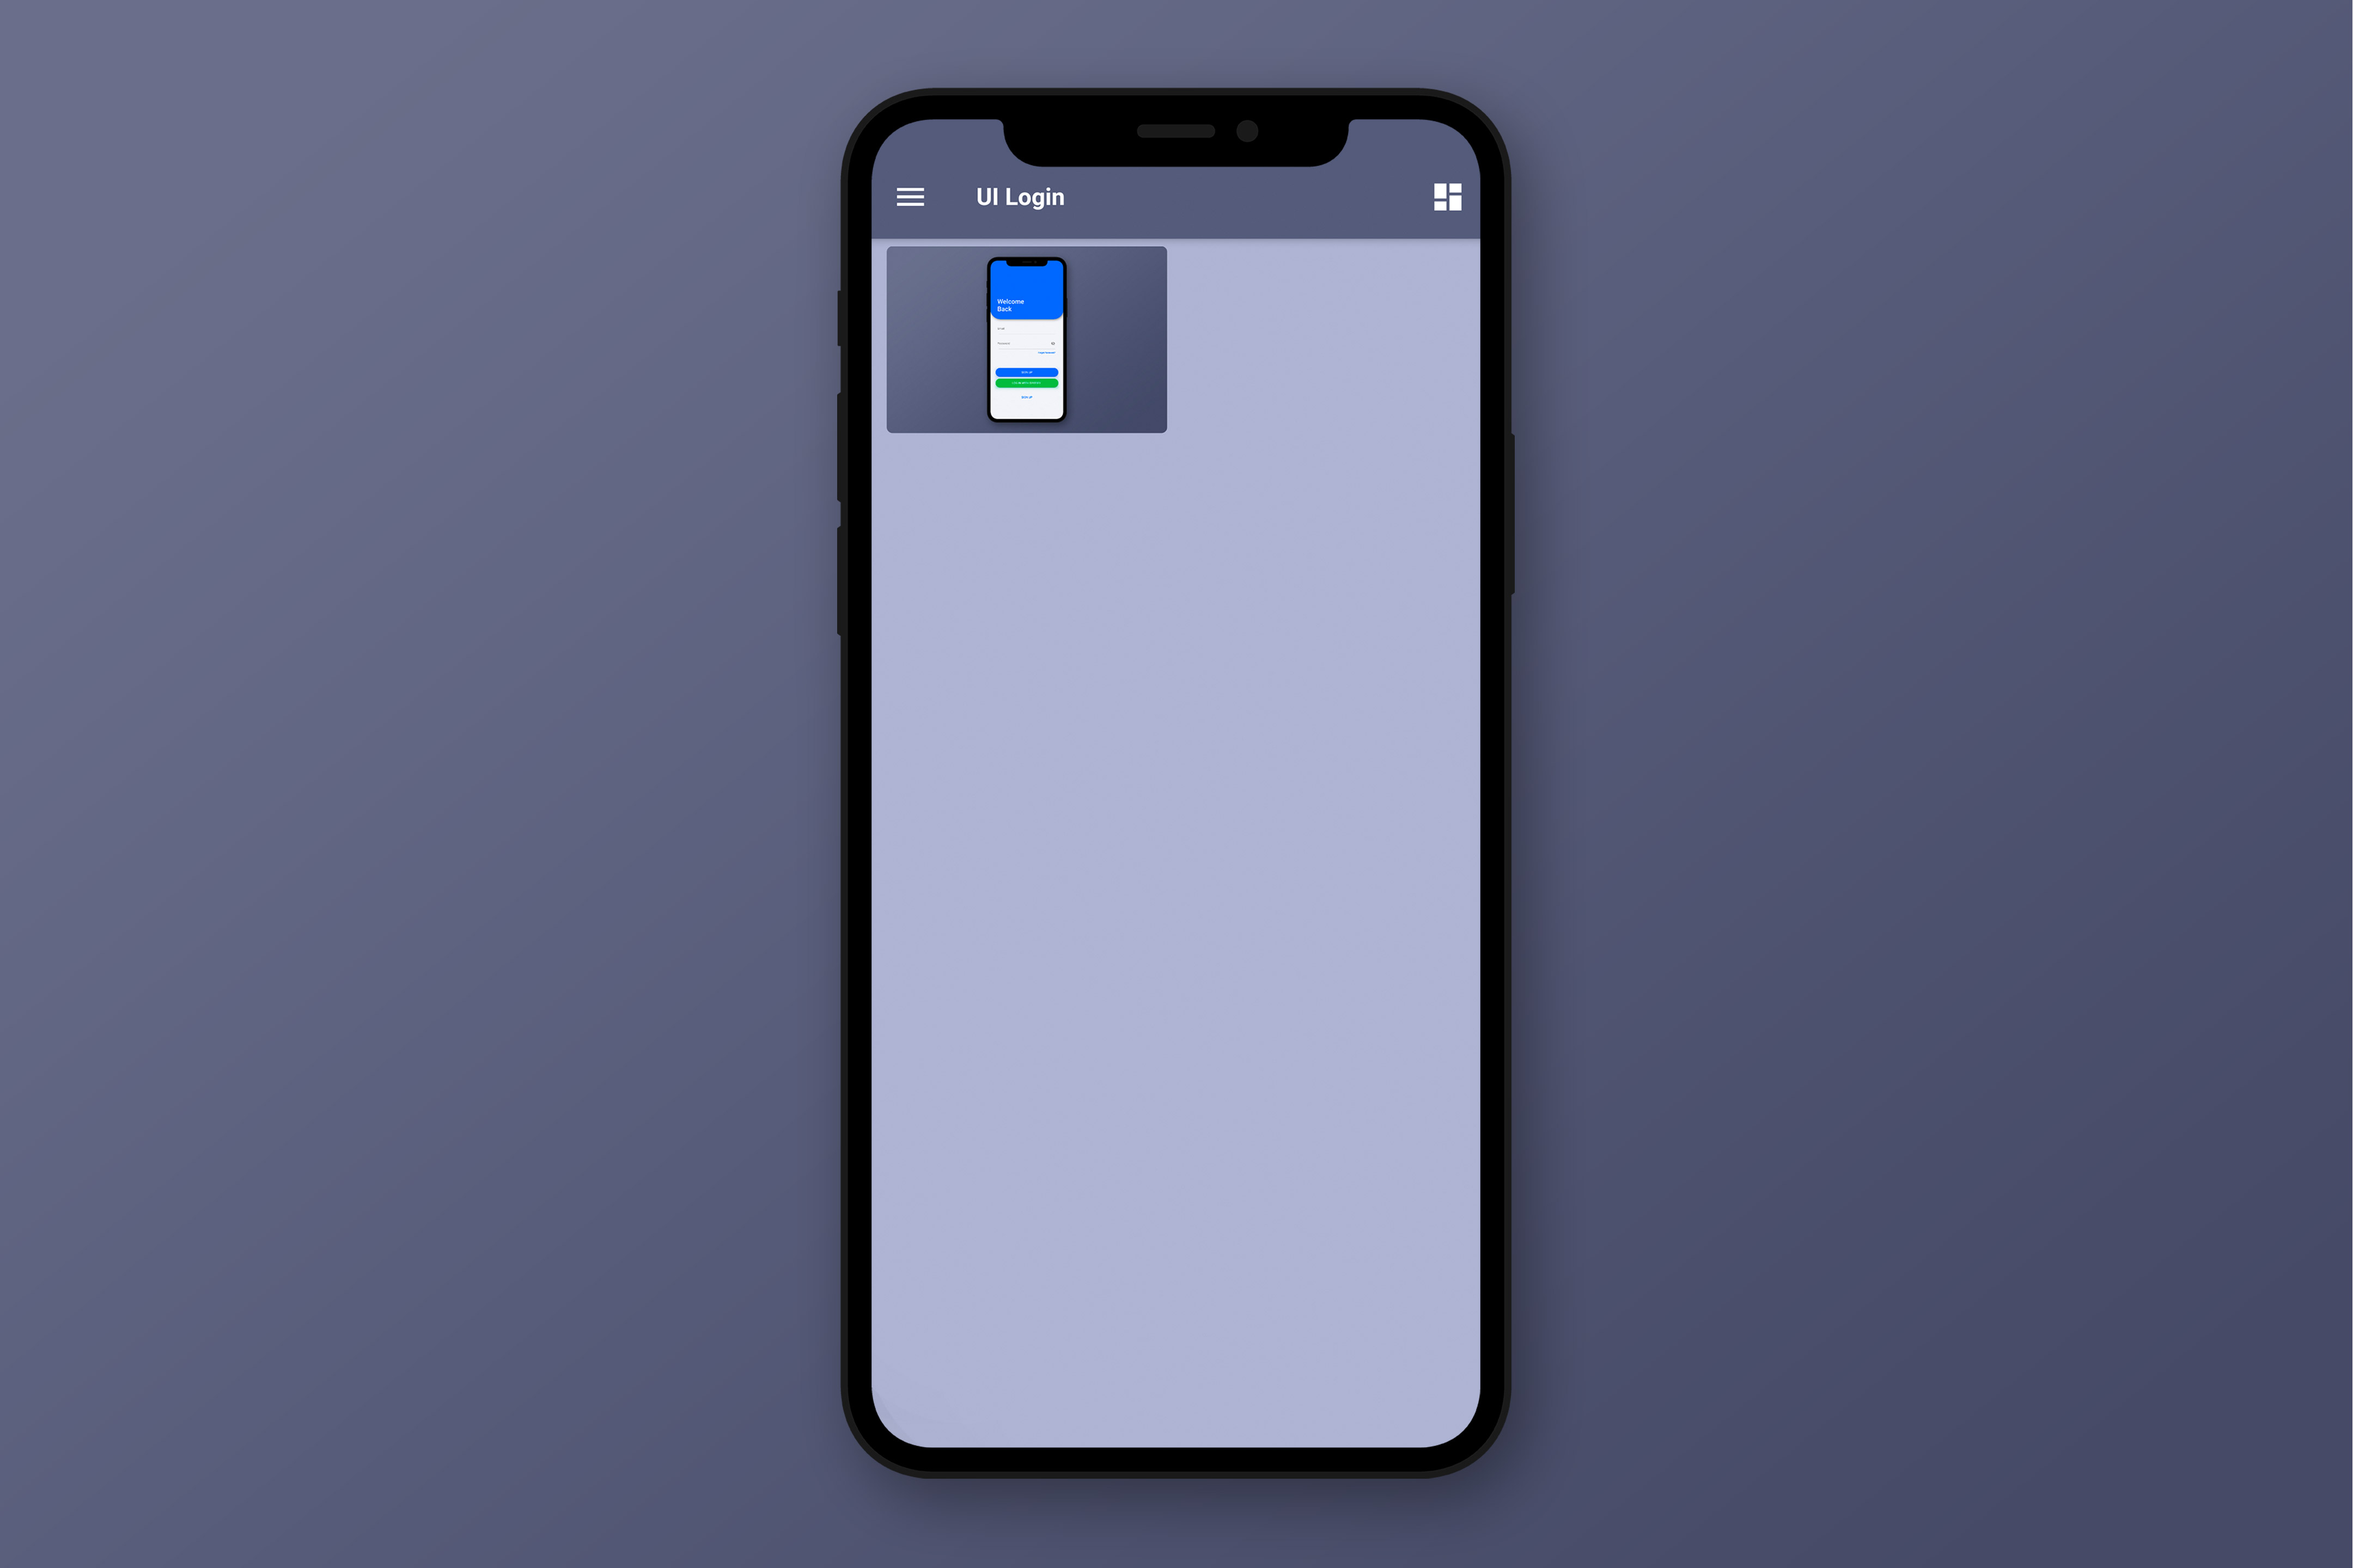
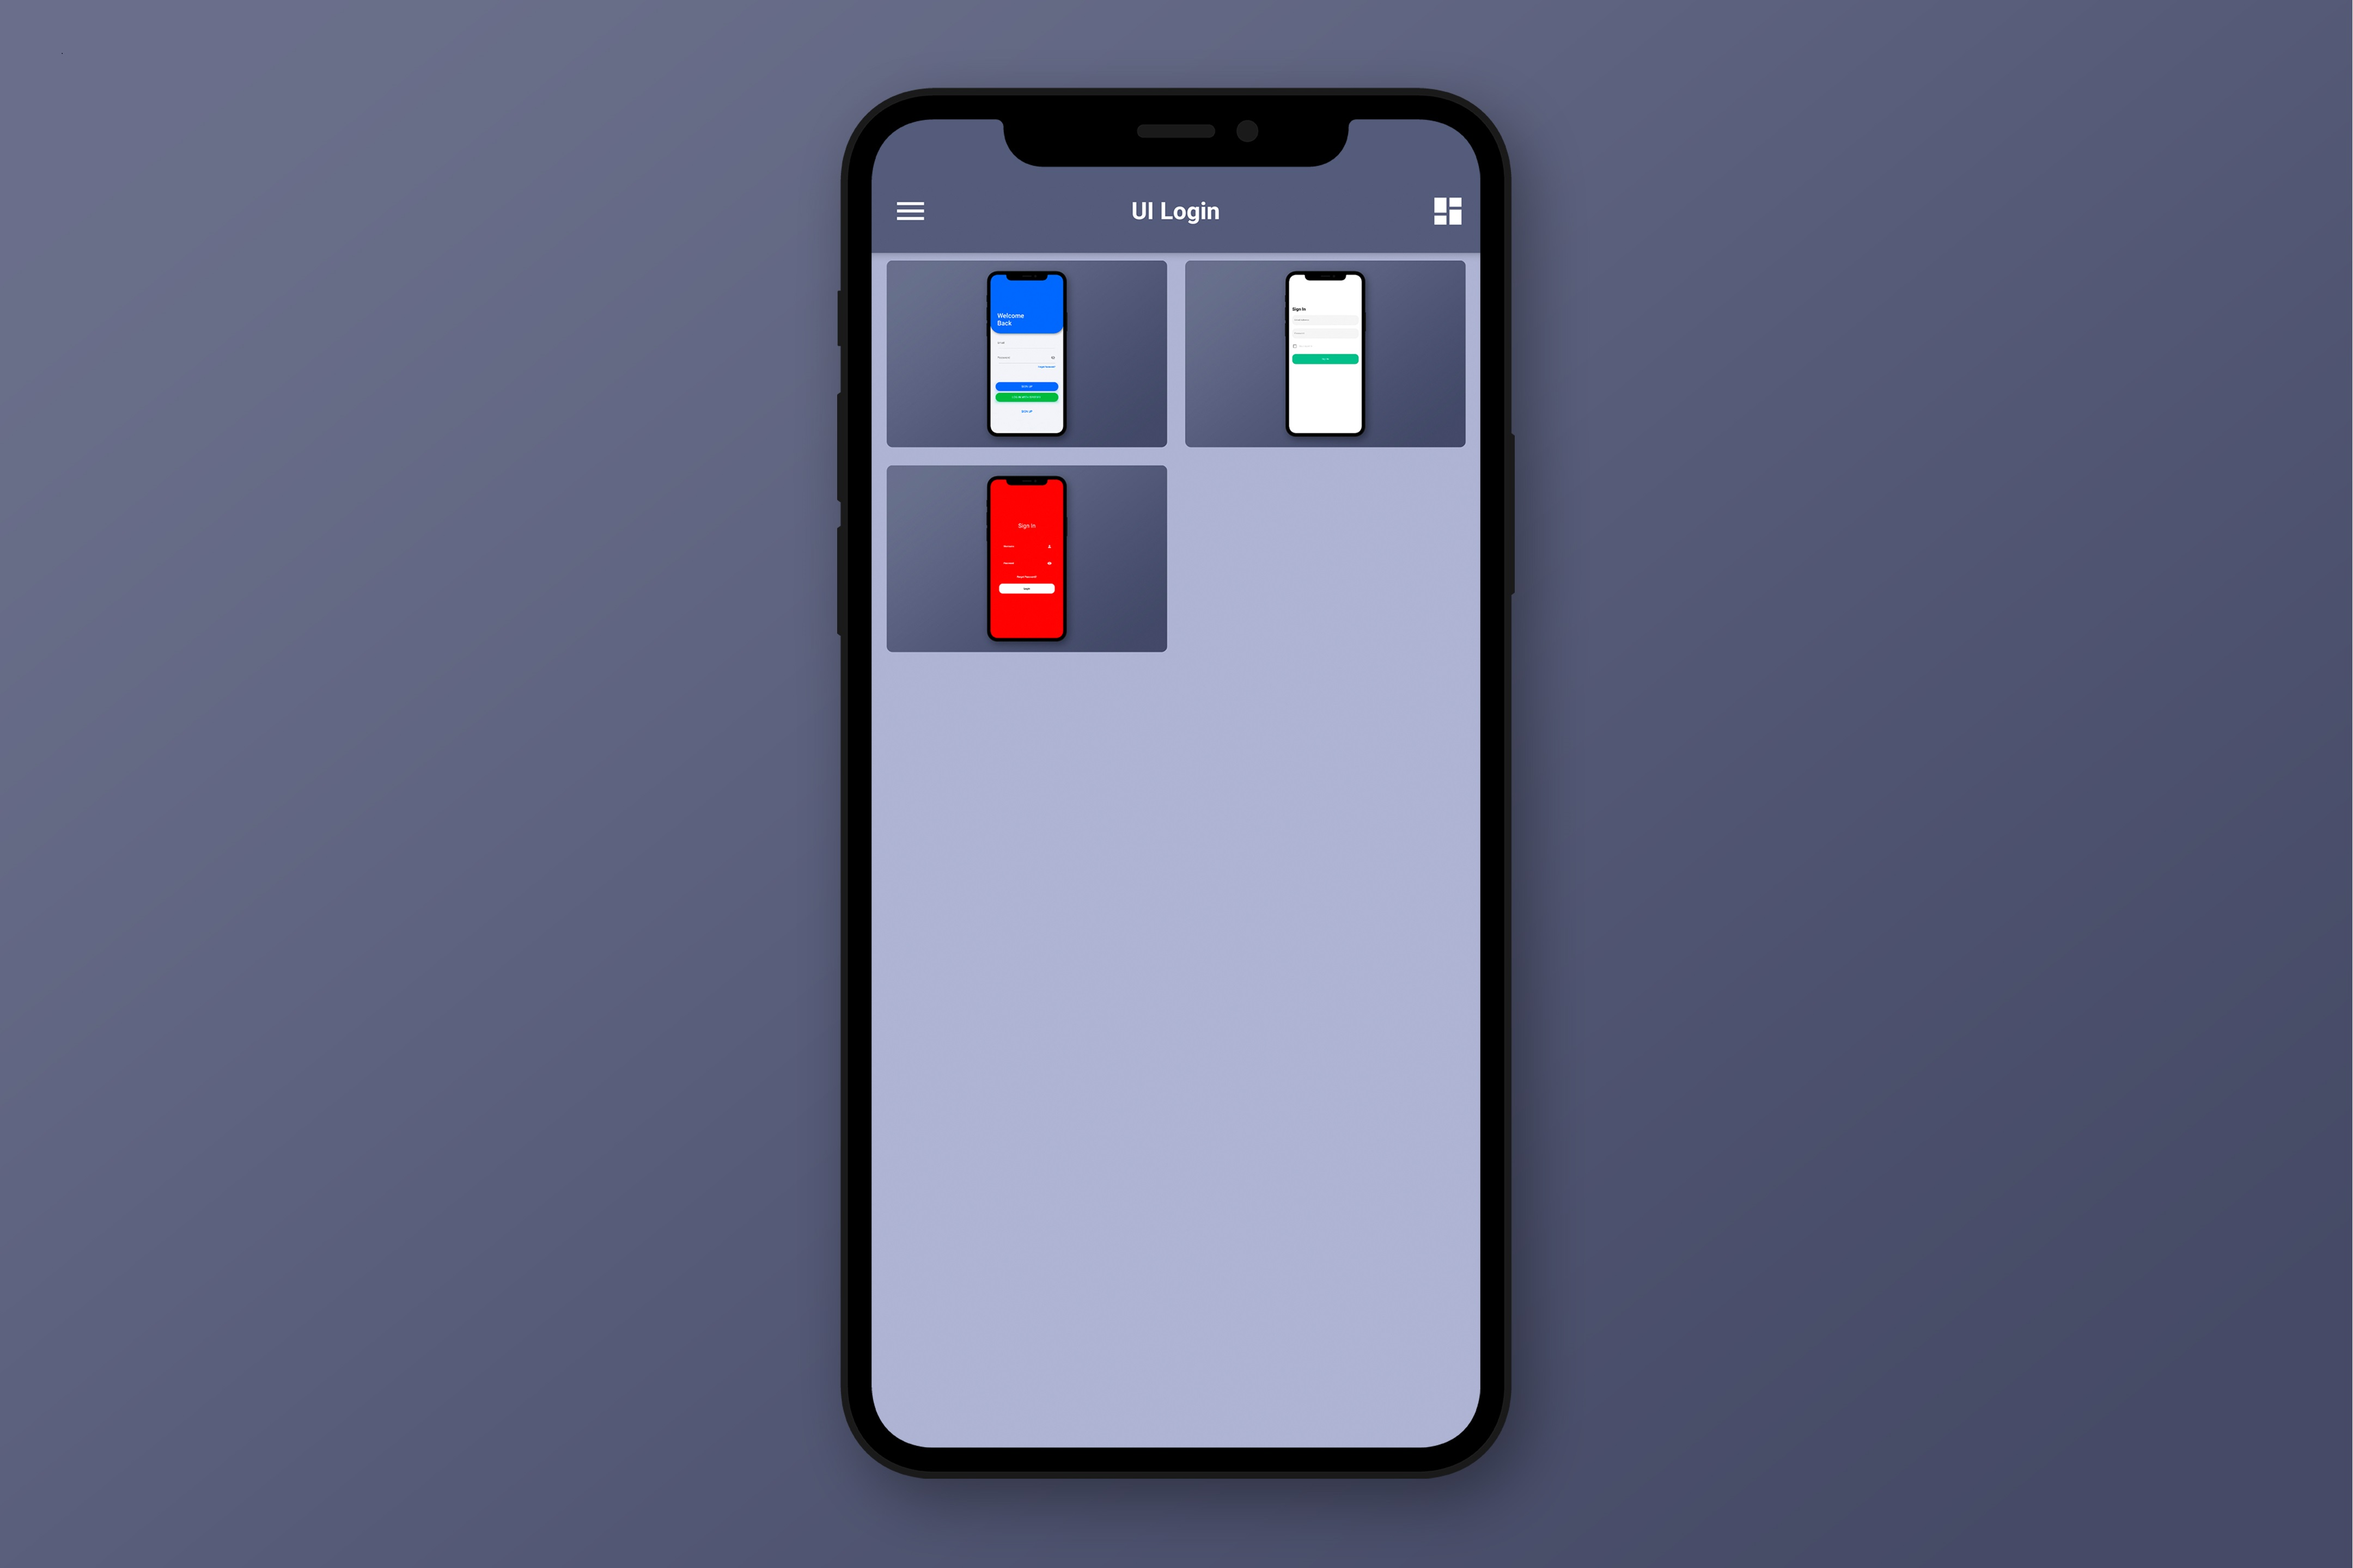
added strawberry and grape screens

Changed region(s): [[0.375, 0.125, 0.625, 0.4375]]

diff --git a/lib/screens/strawberry_login.dart b/lib/screens/strawberry_login.dart
@@ -1,0 +1,133 @@
+import 'package:flutter/material.dart';
+import 'package:flutter_template_login/ui/ui_helper.dart';
+
+class StrawberryLogin extends StatefulWidget {
+  @override
+  _StrawberryLoginState createState() => _StrawberryLoginState();
+}
+
+class _StrawberryLoginState extends State<StrawberryLogin> {
+  @override
+  Widget build(BuildContext context) {
+    return Scaffold(
+      backgroundColor: UIHelper.STRAWBERRY_PRIMARY_COLOR,
+      body: Center(
+        child: Column(
+          mainAxisAlignment: MainAxisAlignment.center,
+          crossAxisAlignment: CrossAxisAlignment.center,
+          children: <Widget>[
+            Text(
+              UIHelper.signInLower,
+              style: TextStyle(color: UIHelper.WHITE, fontSize: 40),
+            ),
+            _textField,
+            _passwordField,
+            _forgetPasswordButton,
+            _loginButton,
+          ],
+        ),
+      ),
+    );
+  }
+
+  Widget get _textField => Padding(
+        padding: const EdgeInsets.fromLTRB(50, 70, 50, 10),
+        child: TextField(
+          style: TextStyle(color: UIHelper.WHITE),
+          textAlign: TextAlign.left,
+          obscureText: false,
+          autocorrect: false,
+          cursorColor: UIHelper.WHITE,
+          maxLines: 1,
+          decoration: InputDecoration(
+            suffixIcon: Padding(
+              padding: const EdgeInsets.only(right: 10.0),
+              child: Icon(
+                Icons.person,
+                color: UIHelper.WHITE,
+              ),
+            ),
+            filled: true,
+            fillColor: UIHelper.STRAWBERRY_SECONDARY_COLOR,
+            focusedBorder: OutlineInputBorder(
+                borderRadius: BorderRadius.circular(50),
+                borderSide: BorderSide(
+                    color: UIHelper.STRAWBERRY_SECONDARY_COLOR, width: 2)),
+            enabledBorder: OutlineInputBorder(
+                borderRadius: BorderRadius.circular(50),
+                borderSide: BorderSide(
+                    color: UIHelper.STRAWBERRY_SECONDARY_COLOR, width: 2)),
+            hintText: UIHelper.username,
+            contentPadding: const EdgeInsets.fromLTRB(25, 20, 25, 20),
+            hintStyle:
+                TextStyle(color: UIHelper.WHITE, fontWeight: FontWeight.bold),
+          ),
+        ),
+      );
+
+  Widget get _passwordField => Padding(
+        padding: const EdgeInsets.fromLTRB(50, 30, 50, 10),
+        child: TextField(
+          style: TextStyle(color: UIHelper.WHITE),
+          textAlign: TextAlign.left,
+          obscureText: false,
+          autocorrect: false,
+          cursorColor: UIHelper.WHITE,
+          maxLines: 1,
+          decoration: InputDecoration(
+            suffixIcon: Padding(
+              padding: const EdgeInsets.only(right: 10.0),
+              child: Icon(
+                Icons.remove_red_eye,
+                color: UIHelper.WHITE,
+              ),
+            ),
+            filled: true,
+            fillColor: UIHelper.STRAWBERRY_SECONDARY_COLOR,
+            focusedBorder: OutlineInputBorder(
+                borderRadius: BorderRadius.circular(50),
+                borderSide: BorderSide(
+                    color: UIHelper.STRAWBERRY_SECONDARY_COLOR, width: 2)),
+            enabledBorder: OutlineInputBorder(
+                borderRadius: BorderRadius.circular(50),
+                borderSide: BorderSide(
+                    color: UIHelper.STRAWBERRY_SECONDARY_COLOR, width: 2)),
+            hintText: UIHelper.password,
+            contentPadding: const EdgeInsets.fromLTRB(25, 20, 25, 20),
+            hintStyle:
+                TextStyle(color: UIHelper.WHITE, fontWeight: FontWeight.bold),
+          ),
+        ),
+      );
+
+  Widget get _forgetPasswordButton => Padding(
+        padding: const EdgeInsets.only(top: 30),
+        child: InkWell(
+          child: Text(
+            UIHelper.forgetPassword,
+            style: TextStyle(
+                color: UIHelper.WHITE,
+                fontWeight: FontWeight.bold,
+                fontSize: 17),
+          ),
+          onTap: () {},
+        ),
+      );
+
+  Widget get _loginButton => Padding(
+        padding: const EdgeInsets.fromLTRB(50, 30, 50, 10),
+        child: MaterialButton(
+          height: 56,
+          minWidth: double.infinity,
+          color: UIHelper.WHITE,
+          shape: RoundedRectangleBorder(
+              borderRadius: new BorderRadius.circular(20.0)),
+          onPressed: () {},
+          child: Text(
+            UIHelper.login,
+            style: TextStyle(
+                fontSize: 17, color: Colors.black, fontWeight: FontWeight.bold),
+          ),
+        ),
+      );
+}

diff --git a/lib/screens/grape_login.dart b/lib/screens/grape_login.dart
@@ -1,0 +1,121 @@
+import 'package:flutter/material.dart';
+import 'package:flutter_template_login/ui/ui_helper.dart';
+
+bool _value = false;
+
+class GrapeLogin extends StatefulWidget {
+  @override
+  _GrapeLoginState createState() => _GrapeLoginState();
+}
+
+class _GrapeLoginState extends State<GrapeLogin> {
+  @override
+  Widget build(BuildContext context) {
+    return Scaffold(
+      backgroundColor: UIHelper.WHITE,
+      body: SingleChildScrollView(
+        child: Column(
+          mainAxisAlignment: MainAxisAlignment.center,
+          crossAxisAlignment: CrossAxisAlignment.start,
+          children: <Widget>[
+            Padding(
+              padding: const EdgeInsets.fromLTRB(20, 100, 0, 0),
+              child: Text(
+                "Sign In",
+                style: TextStyle(fontSize: 30, fontWeight: FontWeight.bold),
+              ),
+            ),
+            Padding(
+              padding: const EdgeInsets.fromLTRB(20, 20, 20, 0),
+              child: TextField(
+                obscureText: false,
+                decoration: new InputDecoration(
+                  focusedBorder: new OutlineInputBorder(
+                    borderSide:
+                        new BorderSide(color: Color(0xFF5ABD8C), width: 2),
+                    borderRadius: const BorderRadius.all(
+                      const Radius.circular(20.0),
+                    ),
+                  ),
+                  enabledBorder: new OutlineInputBorder(
+                    borderSide:
+                        new BorderSide(color: Color(0x80EFEFEF), width: 2),
+                    borderRadius: const BorderRadius.all(
+                      const Radius.circular(20.0),
+                    ),
+                  ),
+                  filled: true,
+                  hintStyle: new TextStyle(color: Color(0x75000000)),
+                  hintText: "Email Adreess",
+                ),
+              ),
+            ),
+            Padding(
+              padding: const EdgeInsets.fromLTRB(20, 20, 20, 20),
+              child: TextField(
+                obscureText: true,
+                decoration: new InputDecoration(
+                  focusedBorder: new OutlineInputBorder(
+                    borderSide:
+                        new BorderSide(color: Color(0xFF5ABD8C), width: 2),
+                    borderRadius: const BorderRadius.all(
+                      const Radius.circular(20.0),
+                    ),
+                  ),
+                  enabledBorder: new OutlineInputBorder(
+                    borderSide:
+                        new BorderSide(color: Color(0x80EFEFEF), width: 2),
+                    borderRadius: const BorderRadius.all(
+                      const Radius.circular(20.0),
+                    ),
+                  ),
+                  filled: true,
+                  hintStyle: new TextStyle(color: Color(0x75000000)),
+                  hintText: "Password",
+                ),
+              ),
+            ),
+            Padding(
+              padding: const EdgeInsets.symmetric(horizontal: 10),
+              child: Row(
+                children: <Widget>[
+                  Checkbox(
+                    checkColor: Color(0xFFFFFFFF),
+                    activeColor: Color(0xFF5ABD8C),
+                    onChanged: (bool value) {
+                      setState(() {
+                        _value = value;
+                      });
+                    },
+                    value: _value,
+                  ),
+                  Text(
+                    "Stay Logged In",
+                    style: TextStyle(
+                        color: Color(0x50212121), fontWeight: FontWeight.w300),
+                  ),
+                ],
+              ),
+            ),
+            Padding(
+                padding: const EdgeInsets.all(20),
+                child: MaterialButton(
+                  height: 56,
+                  minWidth: double.infinity,
+                  color: Color(0xFF5ABD8C),
+                  shape: RoundedRectangleBorder(
+                      borderRadius: new BorderRadius.circular(20.0)),
+                  onPressed: () {
+                    Navigator.of(context).pushNamed("/HomePage");
+                  },
+                  child: Text(
+                    "Sign In",
+                    style: TextStyle(fontSize: 15, color: Colors.white),
+                  ),
+                )),
+          ],
+        ),
+      ),
+    );
+  }
+}

diff --git a/lib/ui/ui_helper.dart b/lib/ui/ui_helper.dart
@@ -7,16 +7,23 @@ class UIHelper {
   static final String welcomeBack = "Welcome\nBack";
   static final String name = "Name";
   static final String email = "Email";
+  static final String username = "Username";
   static final String password = "Password";
+  static final String login = "Login";
   static final String signIn = "SIGN IN";
   static final String signUp = "SIGN UP";
+  static final String signInLower = "Sign In";
+  static final String signUpLower = "Sign Up";
   static final String forgetPassword = "Forget Password?";
   static final String loginSpotify = "LOG IN WITH SPOTIFY ";
   static final String emailRequired = "Email is required";
   static final String passwordRequired = "Password is required";
+  static final String dontHaveAnAccount = "Don't have an account?";
 
   // IMAGES
   static final String muzPhoto = "assets/images/muz_login.png";
+  static final String grapePhoto = "assets/images/grape_login.png";
+  static final String strawberryPhoto = "assets/images/strawberry_login.png";
   static final String noPhoto = "assets/images/no_photo.png";
 
   // MUZ LOGIN COLORS
@@ -25,6 +32,14 @@ class UIHelper {
   static const Color MUZ_SHADOW = Color(0x70000000);
   static const Color MUZ_BUTTONSHADOW = Color(0x403C67F7);
   static const Color MUZ_TEXT_COLOR = Color(0xFF5A7BB5);
+
+  // MUZ LOGIN COLORS
+  static const Color STRAWBERRY_PRIMARY_COLOR = Color(0xFFFE0000);
+  static const Color STRAWBERRY_SECONDARY_COLOR = Color(0xFFC40000);
+  static const Color STRAWBERRY_SHADOW = Color(0x70000000);
+  static const Color STRAWBERRY_BUTTONSHADOW = Color(0x403C67F7);
+  static const Color STRAWBERRY_TEXT_COLOR = Color(0xFF5A7BB5);
+  static const Color STRAWBERRY_FOCUS_COLOR = Color(0xFFFF5A35);
 
   // GLOBAL COLORS
   static const Color SPOTIFY_COLOR = Color(0xFF1DB954);

diff --git a/lib/home_list.dart b/lib/home_list.dart
@@ -1,5 +1,7 @@
 import 'package:flutter/material.dart';
-import 'package:flutter_template_login/muz_login.dart';
+import 'package:flutter_template_login/screens/grape_login.dart';
+import 'package:flutter_template_login/screens/muz_login.dart';
+import 'package:flutter_template_login/screens/strawberry_login.dart';
 import 'package:flutter_template_login/ui/ui_helper.dart';
 
 class HomeList {
@@ -15,6 +17,14 @@ class HomeList {
     HomeList(
       imagePath: UIHelper.muzPhoto,
       navigateScreen: MuzLogin(),
+    ),
+    HomeList(
+      imagePath: UIHelper.grapePhoto,
+      navigateScreen: GrapeLogin(),
+    ),
+    HomeList(
+      imagePath: UIHelper.strawberryPhoto,
+      navigateScreen: StrawberryLogin(),
     ),
   ];
 }
